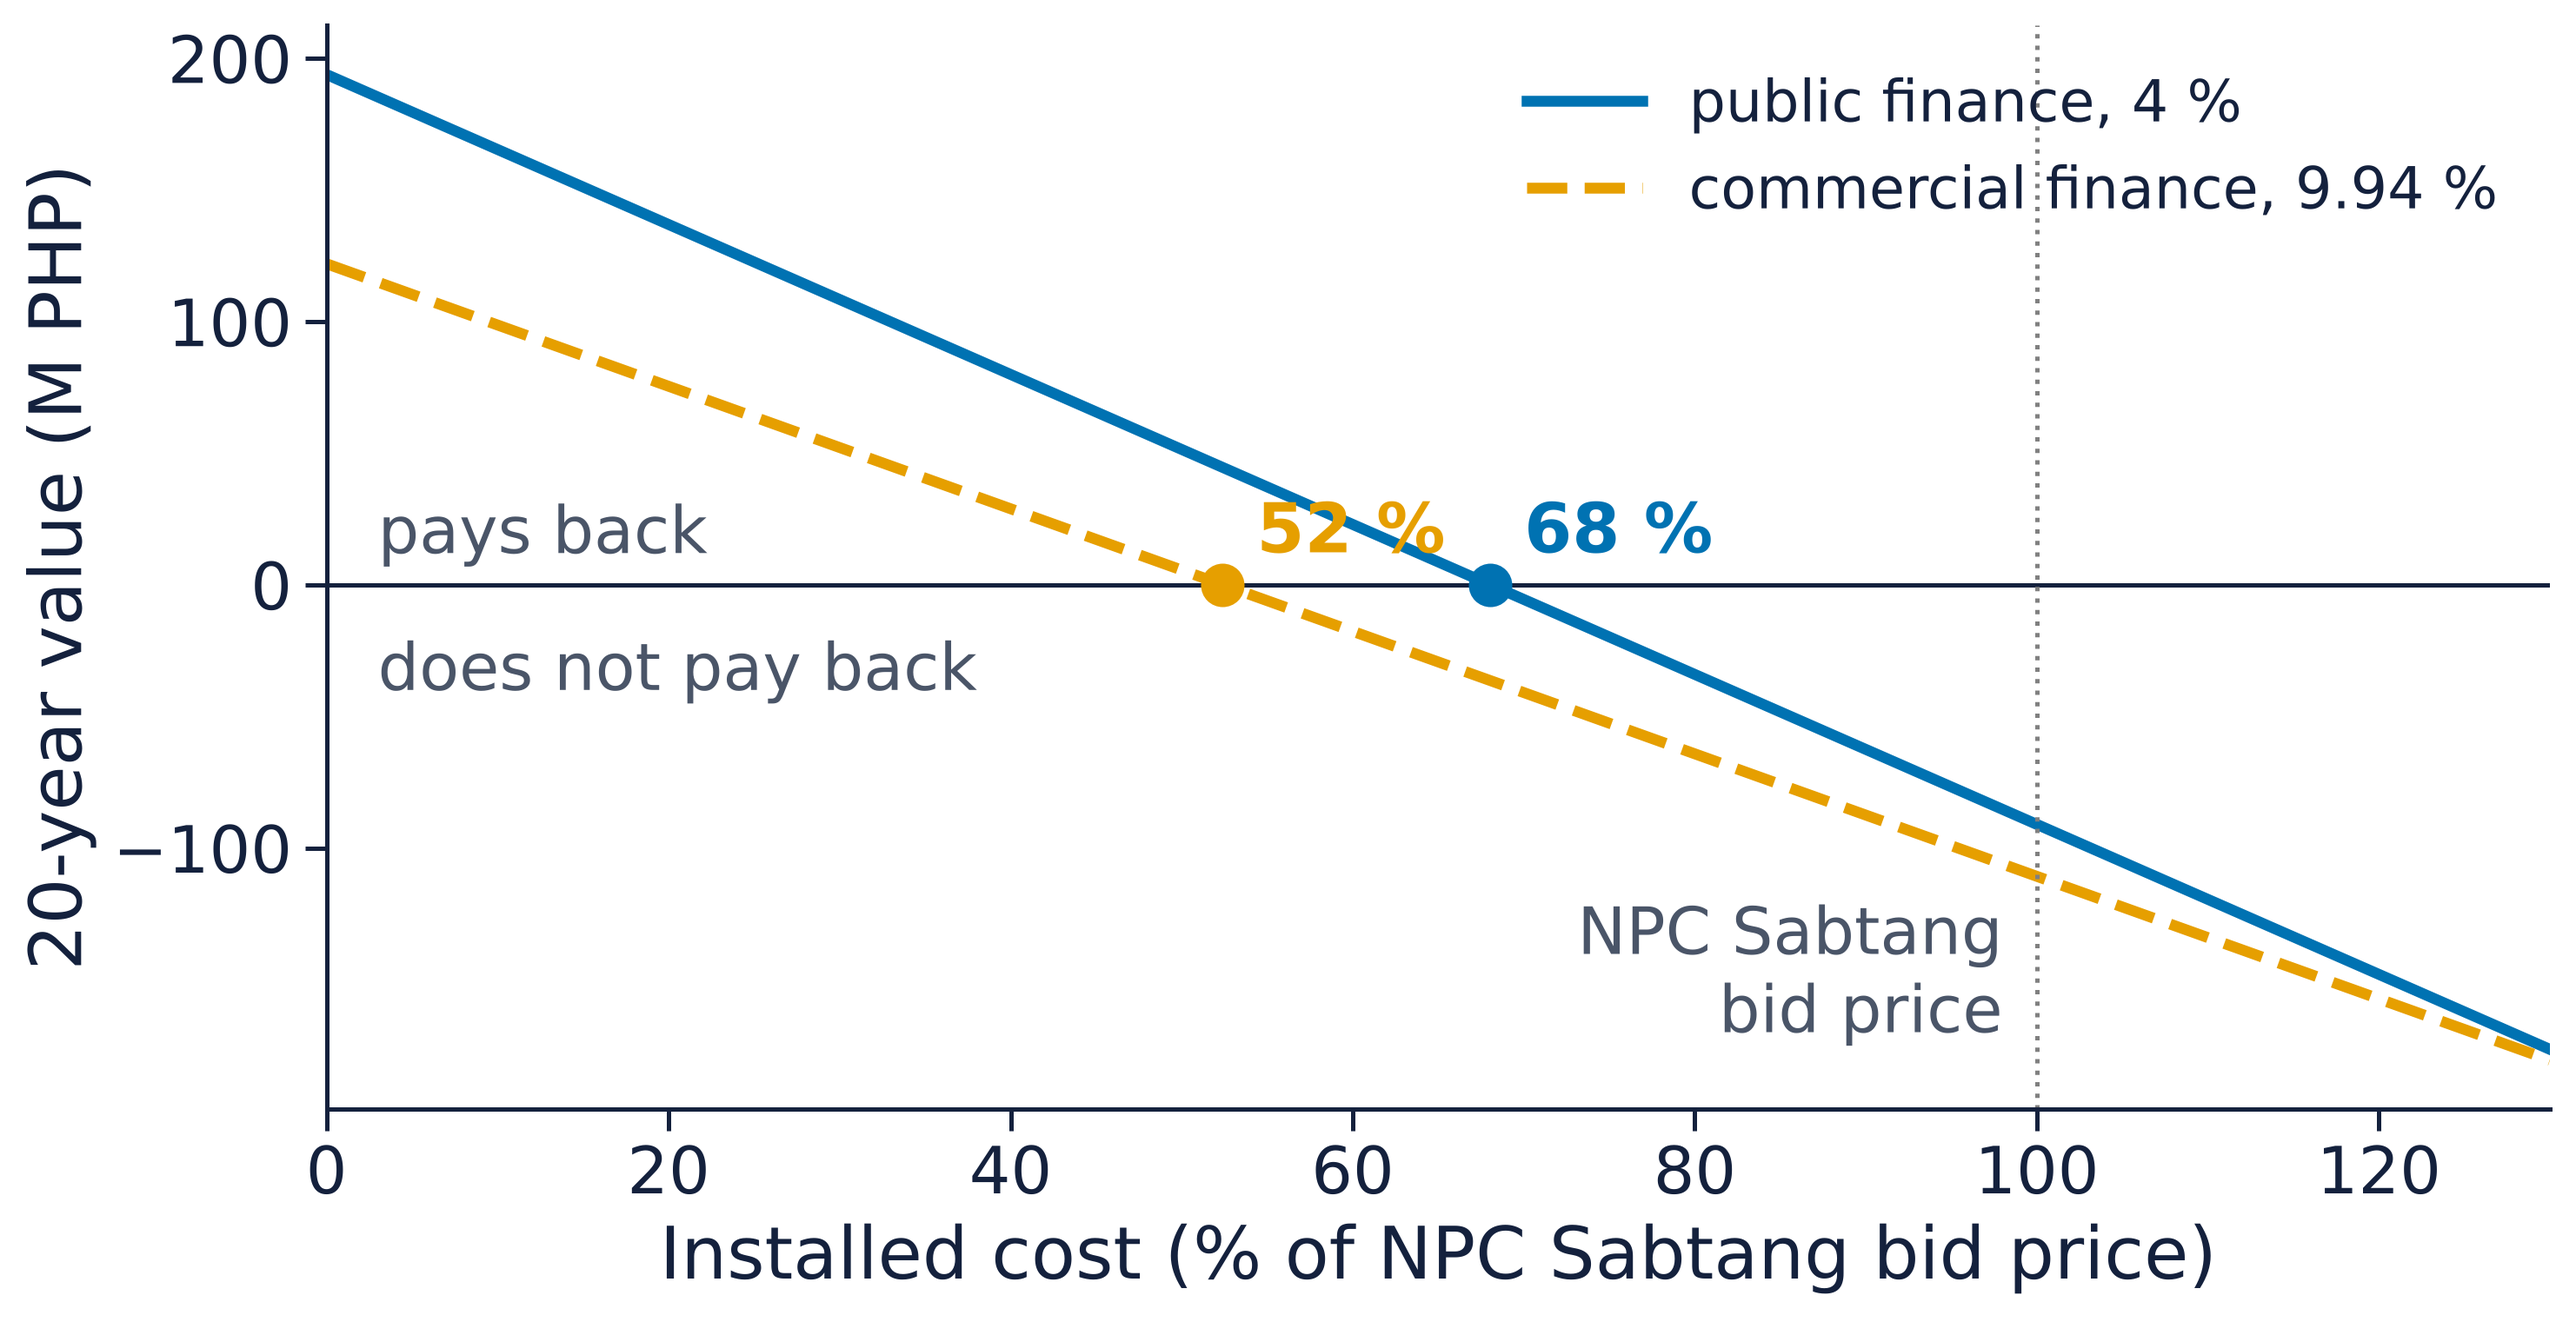
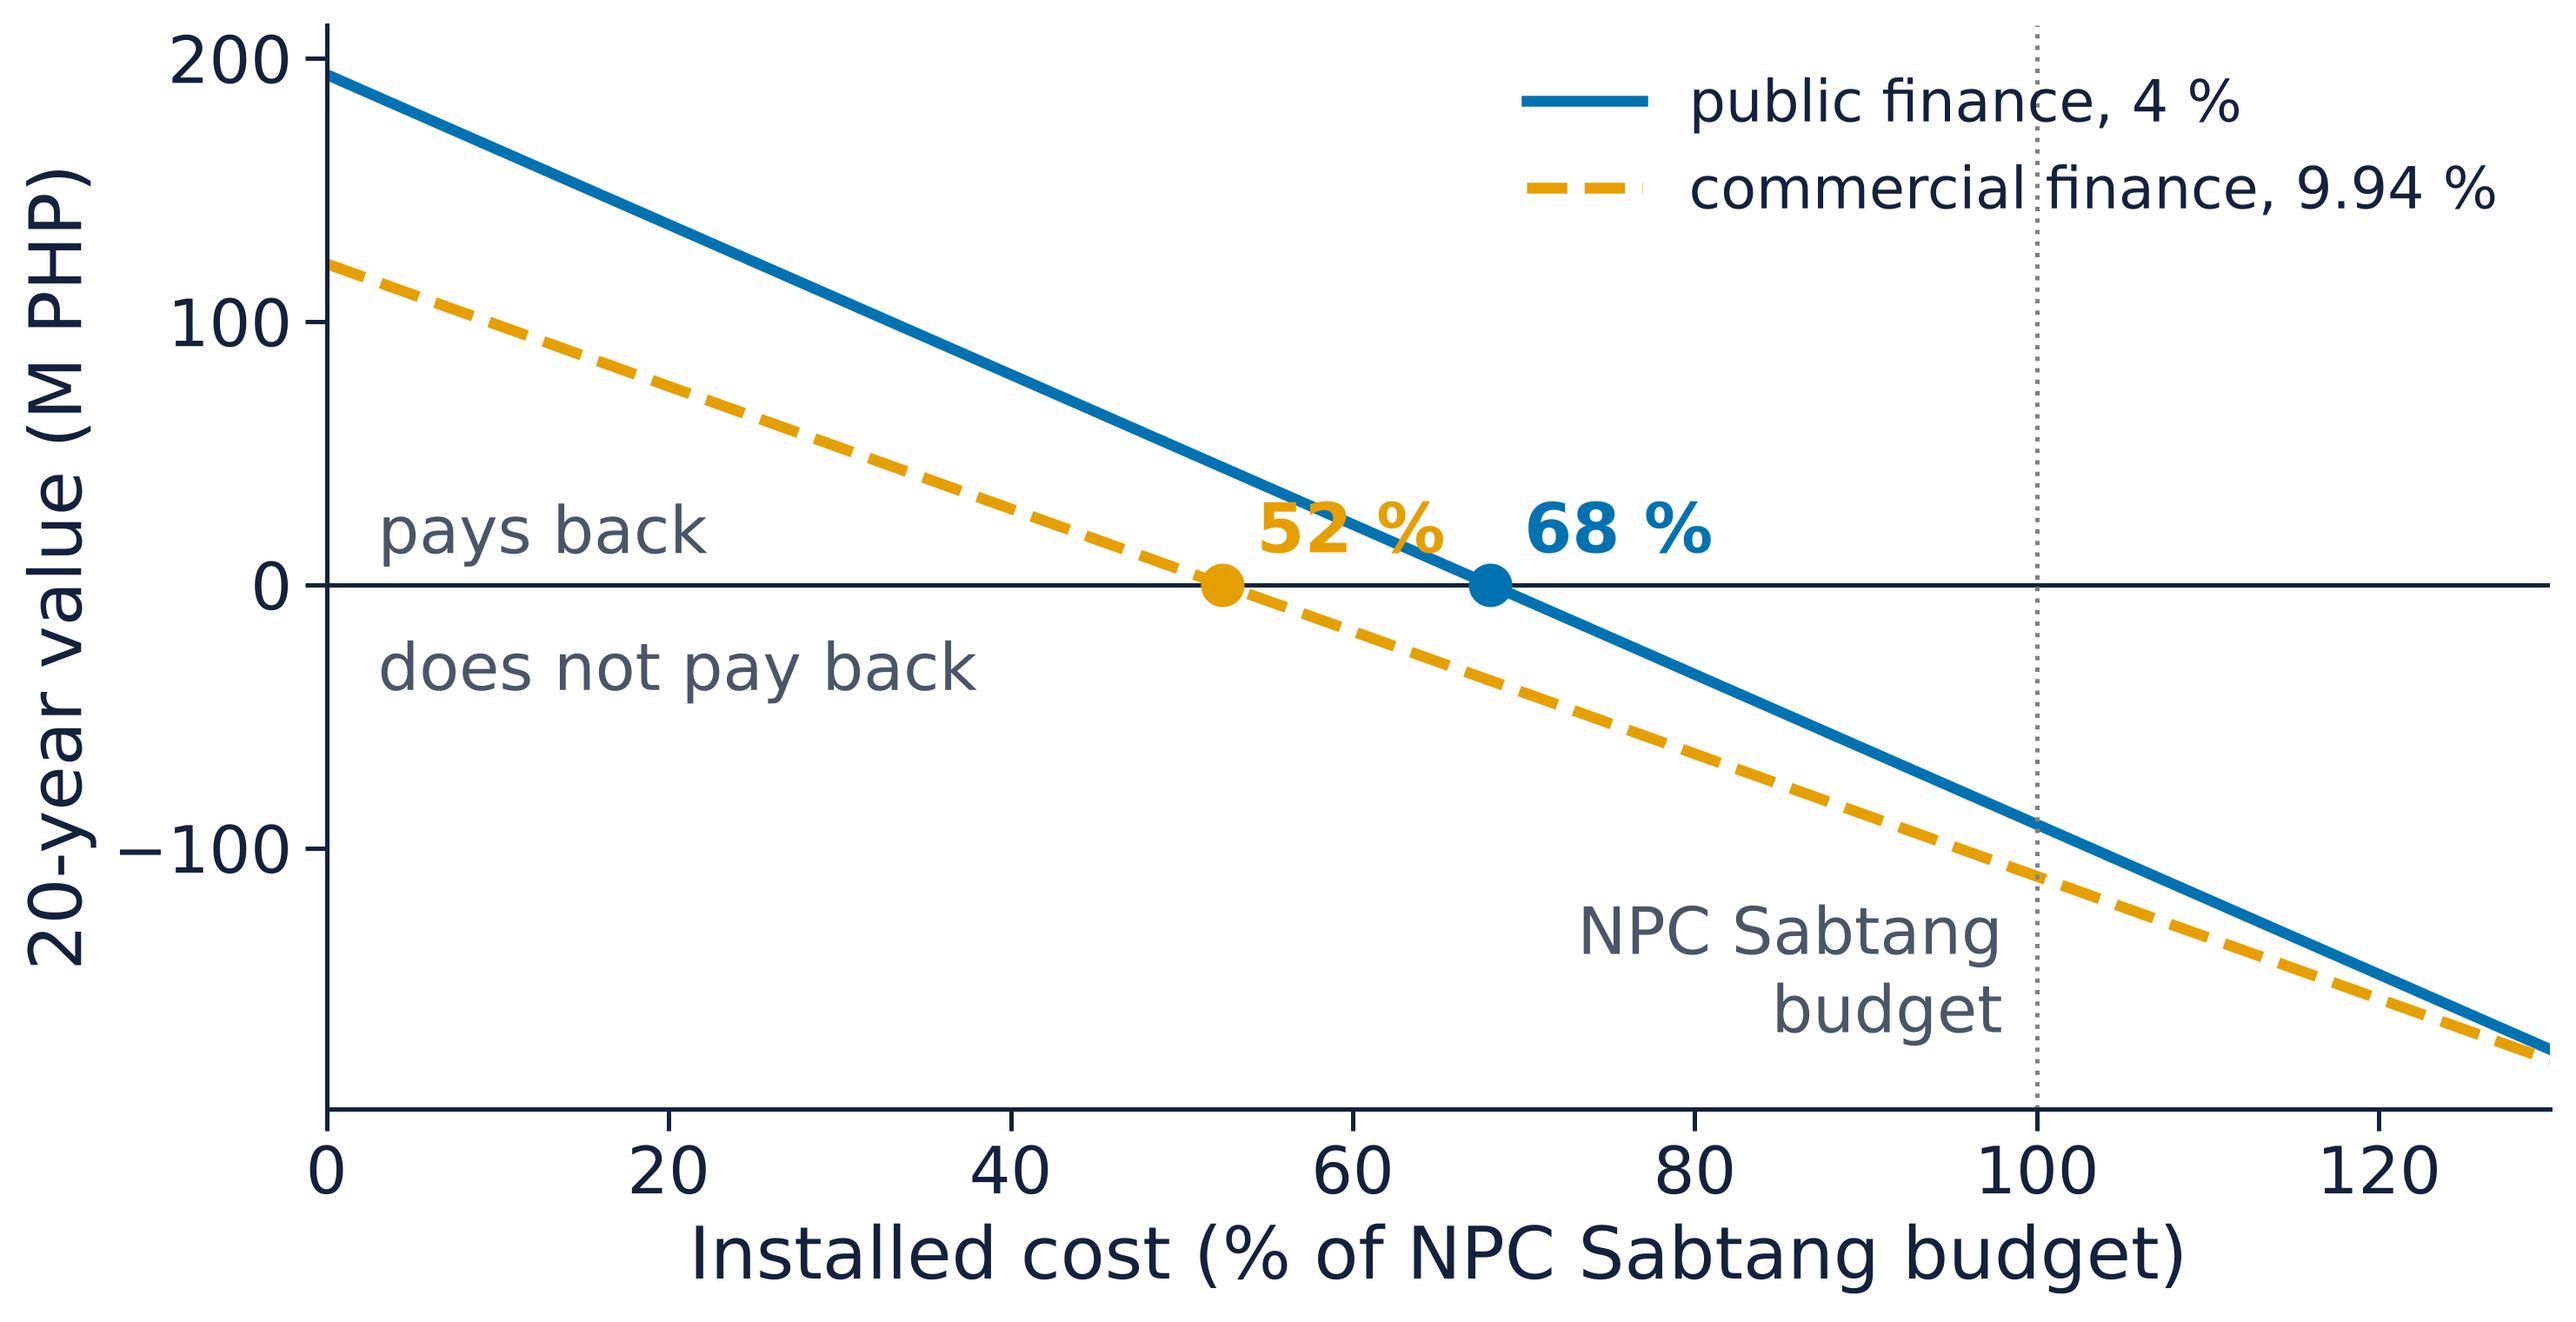
Break-even figure: label Sabtang figure as budget (approved budget ceiling)

Changed region(s): [[0.2484, 0.927, 0.8694, 0.9888], [0.652, 0.7416, 0.7762, 0.8034]]

diff --git a/aurora/plotting/deck.py b/aurora/plotting/deck.py
@@ -148,12 +148,12 @@ def breakeven():
                 va="bottom" if up else "top", fontsize=20, fontweight="bold", color=c)
     ax.axhline(0, color=INK, lw=1.2)
     ax.axvline(100, color="0.5", lw=1.2, ls=":")
-    ax.text(98.5, -190, "NPC Sabtang\nbid price", fontsize=18, color=SOFT, va="bottom", ha="right")
+    ax.text(98.5, -190, "NPC Sabtang\nbudget", fontsize=18, color=SOFT, va="bottom", ha="right")
     ax.text(3, 25, "pays back", fontsize=19, color=SOFT)
     ax.text(3, -45, "does not pay back", fontsize=19, color=SOFT)
     ax.set_xlim(0, 130)
     ax.set_ylim(-200, 290)
-    ax.set_xlabel("Installed cost (% of NPC Sabtang bid price)")
+    ax.set_xlabel("Installed cost (% of NPC Sabtang budget)")
     ax.set_ylabel("20-year value (M PHP)")
     ax.legend(frameon=False, loc="upper right", fontsize=19, bbox_to_anchor=(1.0, 0.9))
     _save(fig, "breakeven_price")
@@ -295,7 +295,7 @@ def breakeven_v2():
                     fontweight="bold", color=col, alpha=a, va="bottom" if price > 100 else "top")
     ax.axhline(0, color=INK, lw=1.2)
     ax.axvline(100, color="0.5", lw=1.2, ls=":")
-    ax.text(98, -170, "NPC Sabtang\nbid price", ha="right", fontsize=18, color=SOFT)
+    ax.text(98, -170, "NPC Sabtang\nbudget", ha="right", fontsize=18, color=SOFT)
     ax.text(3, 12, "pays back", fontsize=18, color=SOFT)
     ax.text(3, -40, "does not pay back", fontsize=18, color=SOFT)
     from matplotlib.lines import Line2D
@@ -304,7 +304,7 @@ def breakeven_v2():
 ],
               frameon=False, loc="upper right", fontsize=16)
     ax.set_xlim(0, 130)
-    ax.set_xlabel("Installed cost (% of NPC Sabtang bid price)")
+    ax.set_xlabel("Installed cost (% of NPC Sabtang budget)")
     ax.set_ylabel("20-year value (M PHP)")
     _save(fig, "breakeven_v2")
 
